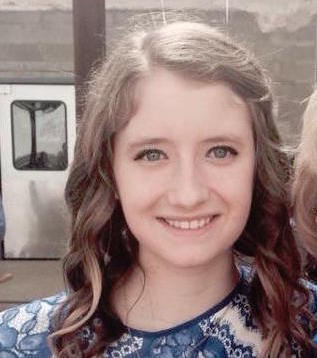
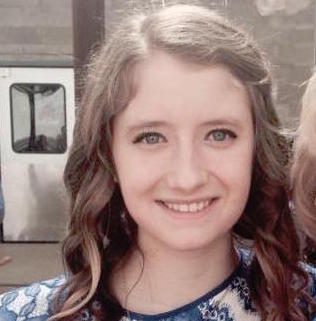
Updated images and links on eboard page.

diff --git a/eboard.html b/eboard.html
@@ -131,8 +131,8 @@
       </div><!-- col-lg-3 -->
 
       <div class="col-lg-3" id="Julia">
-        <img class="img-circle" src="./assets/img/eboard/Julia.jpg" width="110" height="110">
-        <h4><a href="">Julia Bristow</a></h4>
+        <img class="img-circle" src="./assets/img/eboard/Julia.png" width="110" height="110">
+        <h4><a href="http://www.student.seas.gwu.edu/~julia_bristow/">Julia Bristow</a></h4>
         <p>Communications Chair</p>
         <p><a href="#"></a></p>
       </div><!-- col-lg-3-->
@@ -159,8 +159,8 @@
       </div><!-- col-lg-3 -->
 
       <div class="col-lg-3" id="Jonathan">
-        <img class="img-circle" src="./assets/img/eboard/Jonathan.jpg" width="110" height="110">
-        <h4><a href="">Jonathan Minkin</a> </h4>
+        <img class="img-circle" src="./assets/img/eboard/Jonathan.png" width="110" height="110">
+        <h4><a href="https://github.com/jonminkin97">Jonathan Minkin</a> </h4>
         <p>ICPC Chair</p>
         <p><a href="#"></a></p>
       </div>
